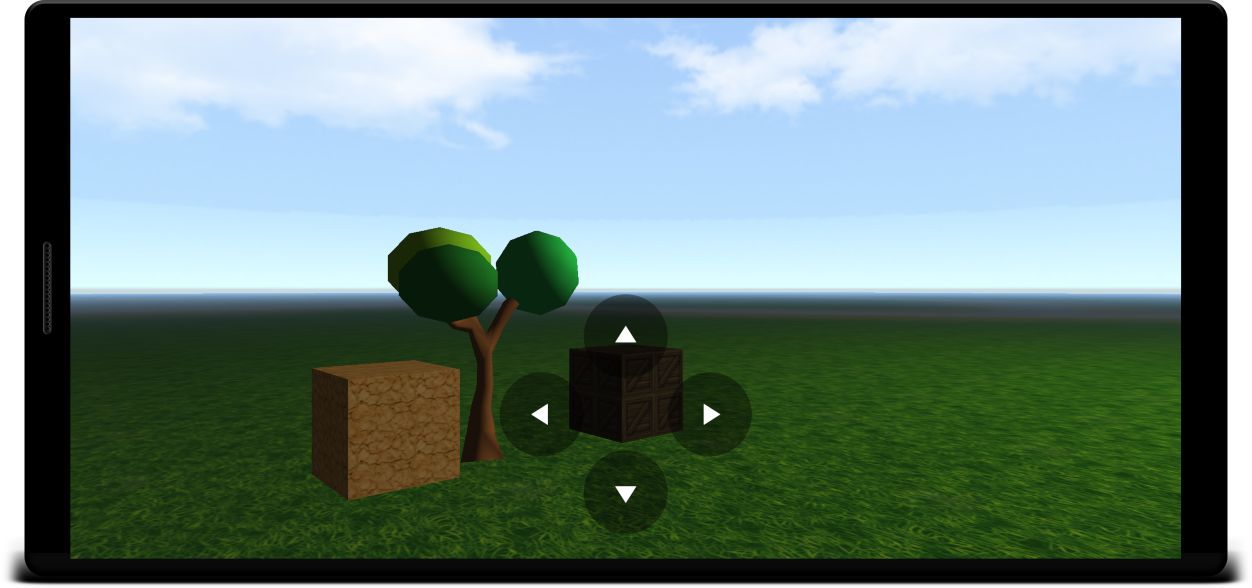
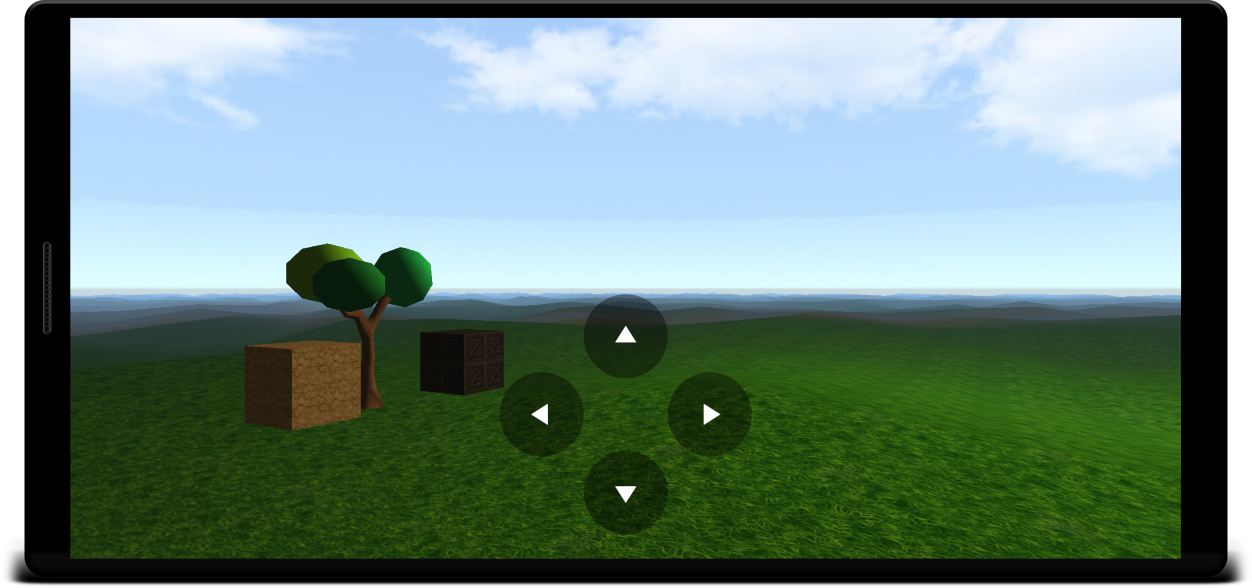
scene: add terrain shape

diff --git a/sample/src/main/java/org/mrlem/siage3d/sample/MainSceneAdapter.kt b/sample/src/main/java/org/mrlem/siage3d/sample/MainSceneAdapter.kt
@@ -4,6 +4,7 @@ import org.mrlem.siage3d.R
 import org.mrlem.siage3d.core.common.io.AssetManager.shape
 import org.mrlem.siage3d.core.common.math.toRadians
 import org.mrlem.siage3d.core.scene.dsl.*
+import org.mrlem.siage3d.core.scene.shapes.Terrain
 import org.mrlem.siage3d.core.view.SceneAdapter
 import kotlin.math.cos
 import kotlin.math.sin
@@ -45,7 +46,7 @@ class MainSceneAdapter : SceneAdapter() {
                 .scale(1f)
             objectNode(
                 "ground",
-                shape = grid(1f, 20),
+                shape = terrain(1f, Terrain.generateHeights(60)),
                 material = multiTextureMaterial(
                     R.drawable.texture_blend_map,
                     R.drawable.texture_grassy2,
@@ -55,8 +56,8 @@ class MainSceneAdapter : SceneAdapter() {
                     200f
                 )
             )
-                .position(-250f, 0f, -250f)
-                .scale(500f)
+                .position(-250f, -2f, -250f)
+                .scale(500f, 2f, 500f)
         }
     }
 

diff --git a/core/src/main/java/org/mrlem/siage3d/core/scene/shapes/Terrain.kt b/core/src/main/java/org/mrlem/siage3d/core/scene/shapes/Terrain.kt
@@ -1,0 +1,29 @@
+package org.mrlem.siage3d.core.scene.shapes
+
+import org.mrlem.siage3d.core.common.math.randomFloat
+
+/**
+ * Note: make sure heights as consistent sizes on both dimensions.
+ */
+class Terrain(
+    size: Float,
+    heights: Array<Array<Float>> = generateHeights(32)
+) : Shape(Grid.generateGrid(size, heights.size).applyHeights(heights)) {
+
+    companion object {
+
+        fun generateHeights(size: Int): Array<Array<Float>> = Array(size) { Array(size) { randomFloat() } }
+
+        fun Data.applyHeights(heights: Array<Array<Float>>): Data {
+            for (i in 1 .. positions.size step 3) {
+                val vertexIndex = i / 3
+                val row = vertexIndex / heights.size
+                val col = vertexIndex % heights.size
+                positions[i] = heights[row][col]
+            }
+            return this
+        }
+
+    }
+
+}

diff --git a/core/src/main/java/org/mrlem/siage3d/core/scene/dsl/SceneDsl.kt b/core/src/main/java/org/mrlem/siage3d/core/scene/dsl/SceneDsl.kt
@@ -46,6 +46,8 @@ fun square() = Square()
 
 fun grid(size: Float, vertexCount: Int) = Grid(size, vertexCount)
 
+fun terrain(size: Float, heights: Array<Array<Float>>) = Terrain(size, heights)
+
 ///////////////////////////////////////////////////////////////////////////
 // Scene scope functions
 ///////////////////////////////////////////////////////////////////////////
@@ -79,6 +81,11 @@ fun <T : Node> T.position(position: Vector3f) = this
 fun <T : Node> T.scale(scale: Float) = this
     .also {
         localTransform.scale(scale)
+    }
+
+fun <T : Node> T.scale(scaleX: Float, scaleY: Float, scaleZ: Float) = this
+    .also {
+        localTransform.scale(scaleX, scaleY, scaleZ)
     }
 
 fun <T : Node> T.rotate(x: Float, y: Float, z: Float) = this

diff --git a/core/src/main/java/org/mrlem/siage3d/core/scene/shapes/Grid.kt b/core/src/main/java/org/mrlem/siage3d/core/scene/shapes/Grid.kt
@@ -4,7 +4,7 @@ class Grid(size: Float, vertexCount: Int) : Shape(generateGrid(size, vertexCount
 
     companion object {
 
-        private fun generateGrid(size: Float, vertexCount: Int): Data {
+        fun generateGrid(size: Float, vertexCount: Int): Data {
             val count: Int = vertexCount * vertexCount
 
             val vertices = FloatArray(count * 3)
